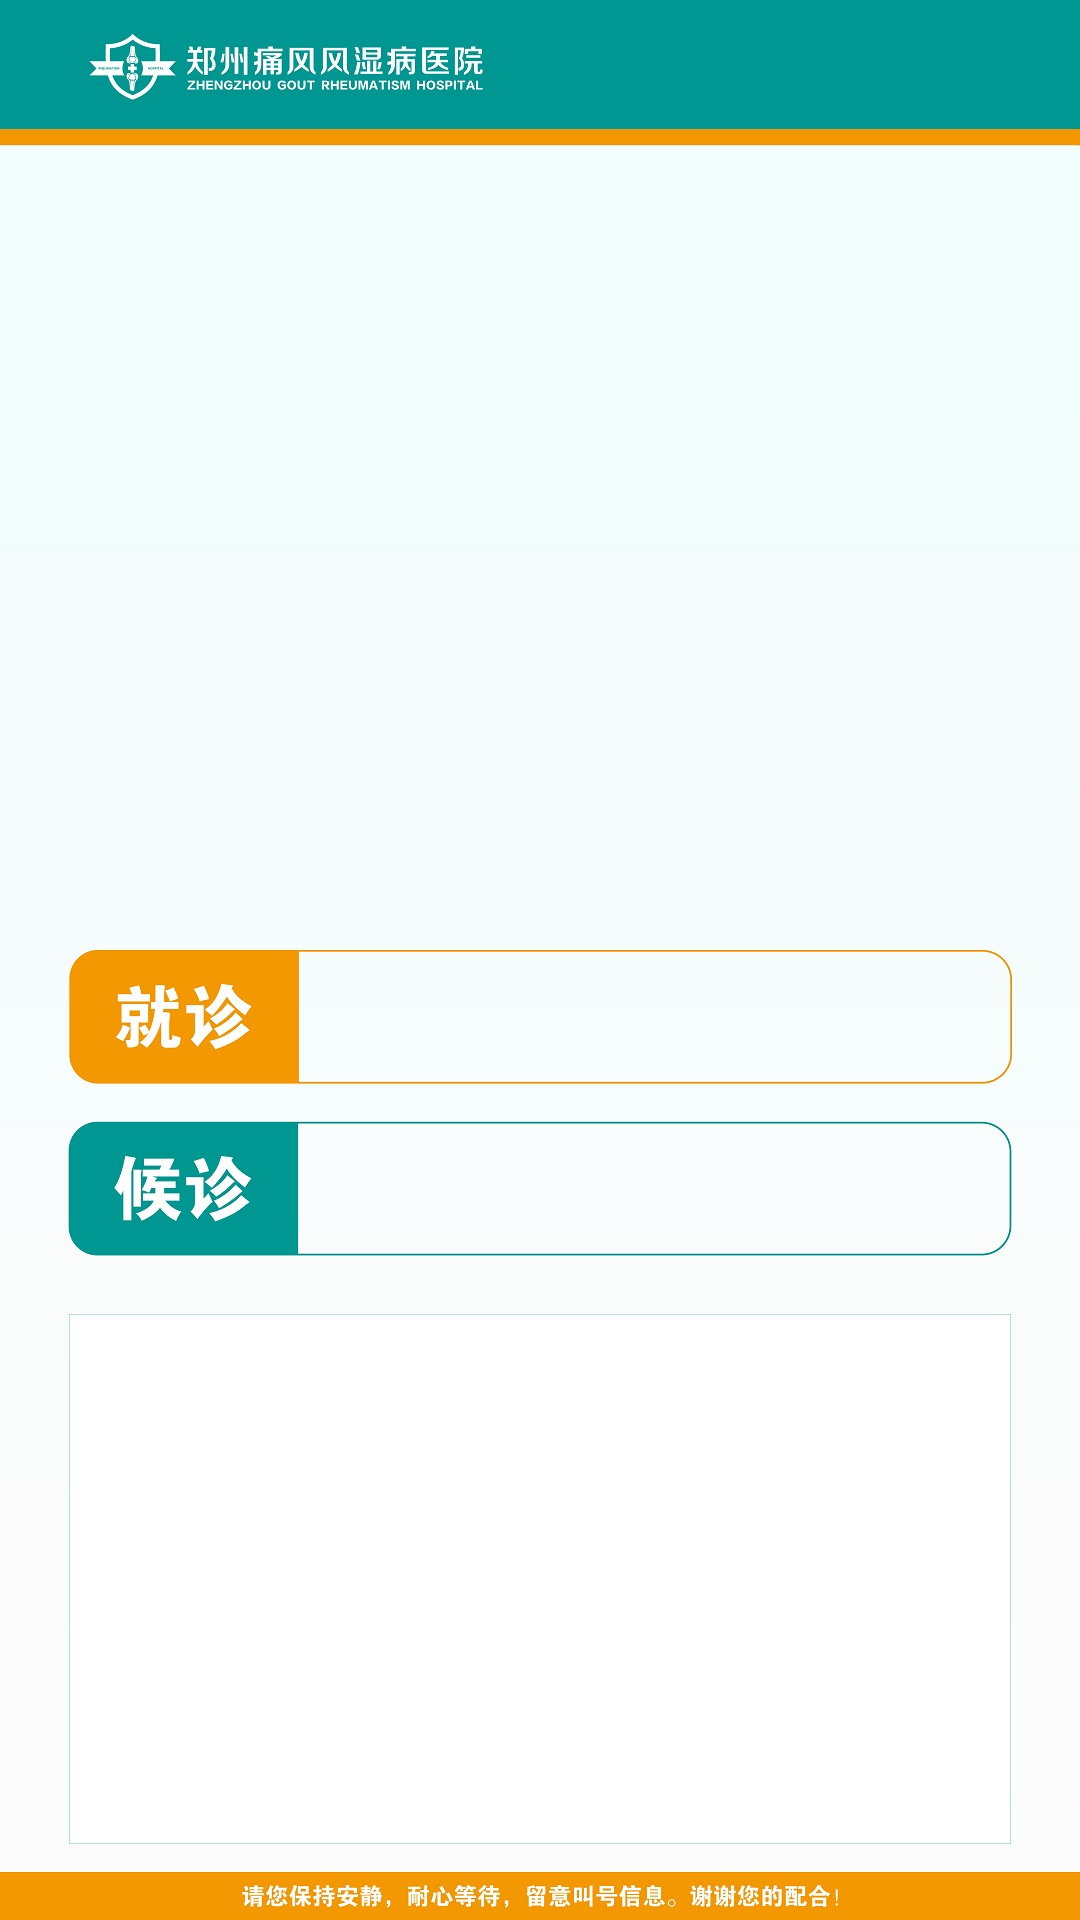
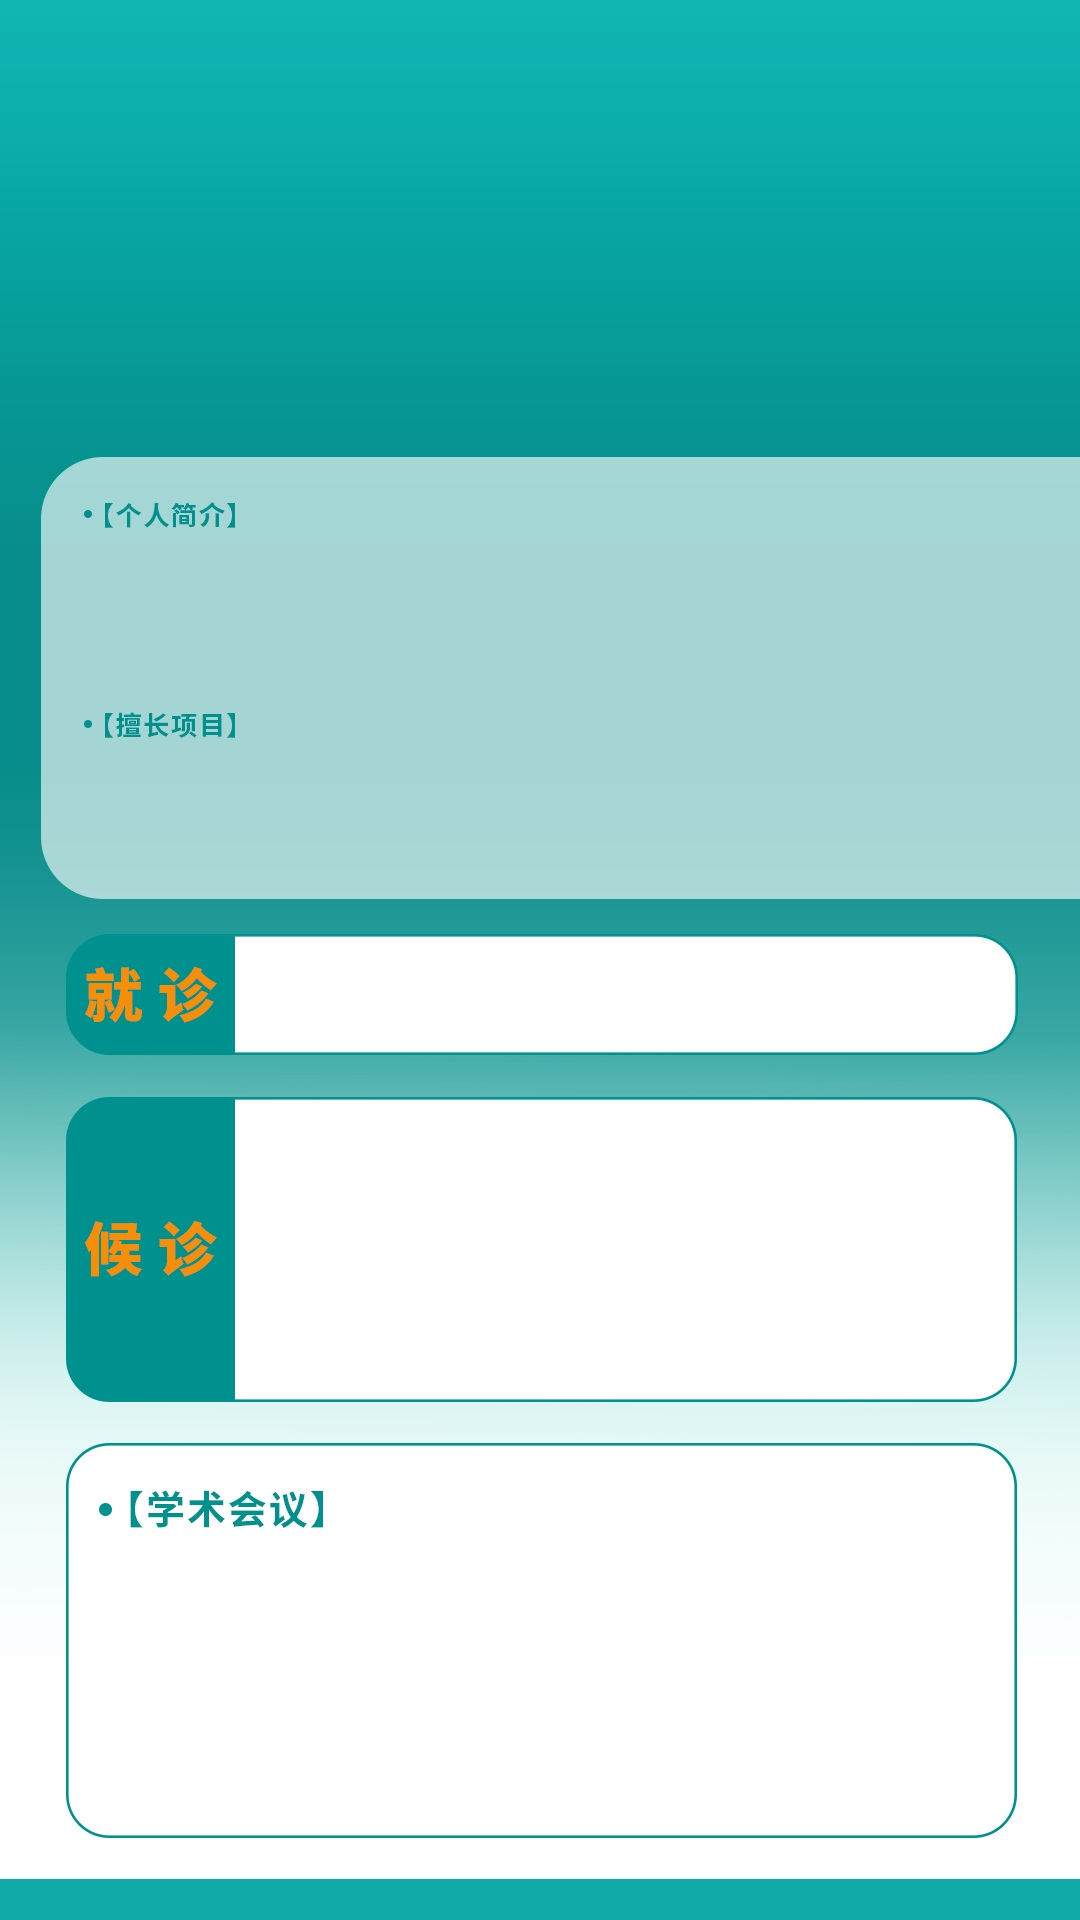
5

diff --git a/expo-projects/doctor-display/src/Home.tsx b/expo-projects/doctor-display/src/Home.tsx
@@ -7,9 +7,10 @@ const bgImg = require('../assets/bg.jpg')
 
 export default function Home() {
   const [modalVisible, setModalVisible] = useState(false)
+
   const [label1Text, setLabel1Text] = useState('')
   const [label2Text, setLabel2Text] = useState('')
-  const [label3Text, setLabel3Text] = useState('')
+  const [names, setNames] = useState<string[]>([])
 
   const [bgImage, setBgImage] = useState(bgImg)
 
@@ -62,13 +63,13 @@ export default function Home() {
       try {
         if (config) {
           const data = await getData(config.dataUrl)
-          setLabel2Text(data.text2)
-          setLabel3Text(data.text3)
+          setLabel2Text(data.title)
+          setNames(data.names)
         }
       } catch (error) {
         console.log(error)
         setLabel2Text('')
-        setLabel3Text('')
+        setNames([])
       }
       timeoutId = setTimeout(getDataTick, 5_000)
     }
@@ -92,11 +93,19 @@ export default function Home() {
       <View style={styles.container}>
         <Image style={styles.bg} source={bgImage} />
 
-        <Text style={[styles.text, styles.label1]} onPress={() => setModalVisible(true)}>
-          {label1Text}
+        <Text style={[styles.text, styles.label1]}>{label1Text}</Text>
+
+        <Text style={[styles.text, styles.label2]} onPress={() => setModalVisible(true)}>
+          {label2Text}
         </Text>
-        <Text style={[styles.text, styles.label2]}>{label2Text}</Text>
-        <Text style={[styles.text, styles.label3]}>{label3Text}</Text>
+
+        <View style={[styles.text, styles.nameView]}>
+          {names.map((name) => (
+            <Text key={name} style={styles.nameItem}>
+              {name}
+            </Text>
+          ))}
+        </View>
       </View>
     </>
   )
@@ -112,25 +121,44 @@ const styles = StyleSheet.create({
     resizeMode: 'stretch',
   },
   text: {
-    width: 490,
-    height: 85,
     position: 'absolute',
-    left: 190,
-    fontSize: 50,
-    fontWeight: 'bold',
-    lineHeight: 85,
     textAlign: 'center',
-    // backgroundColor: 'green',
+    // backgroundColor: '#00ff004f',
   },
   label1: {
-    bottom: 538,
+    left: 260,
+    bottom: 0,
+    width: 200,
+    height: 28,
+    fontSize: 15,
+    lineHeight: 28,
   },
   label2: {
-    bottom: 415,
+    color: '#00908e',
+    left: 155,
+    bottom: 578,
+    width: 520,
+    height: 78,
+    fontSize: 50,
+    fontWeight: 'bold',
+    lineHeight: 78,
   },
-  label3: {
-    bottom: 66,
-    height: 308,
-    lineHeight: 75,
+  nameView: {
+    position: 'absolute',
+    left: 156,
+    bottom: 348,
+    width: 520,
+    height: 200,
+    flexDirection: 'row',
+    flexWrap: 'wrap',
+    overflow: 'hidden',
+  },
+  nameItem: {
+    width: '33%',
+    height: '25%',
+    fontSize: 30,
+    textAlign: 'center',
+    lineHeight: 50,
+    // borderWidth: 1,
   },
 })

diff --git a/expo-projects/doctor-display/src/utils.ts b/expo-projects/doctor-display/src/utils.ts
@@ -47,9 +47,9 @@ export const getConfig = async () => {
 }
 
 export const getData = async (url: string) => {
-  const data = {
-    text2: '',
-    text3: '',
+  const data: { title: string; names: string[] } = {
+    title: '',
+    names: [],
   }
 
   const res = await fetch(url)
@@ -64,20 +64,12 @@ export const getData = async (url: string) => {
 
   const a = list.find((x) => x.state === 1)
   if (a) {
-    data.text2 = `${a.number} ${a.name}`
+    data.title = `${a.number} ${a.name}`
   }
 
   const b = list.filter((x) => x.state === 0)
   if (b.length) {
-    const strs: string[] = []
-    for (let i = 0; i < b.length; i += 2) {
-      const str = b
-        .slice(i, i + 2)
-        .map((x) => `${x.number} ${x.name}`)
-        .join('  ')
-      strs.push(str)
-    }
-    data.text3 = strs.join('\n')
+    data.names = b.map((x) => `${x.number} ${x.name}`)
   }
 
   return data

diff --git a/expo-projects/doctor-display/src/Settings.tsx b/expo-projects/doctor-display/src/Settings.tsx
@@ -7,7 +7,7 @@ type PropsType = {
 }
 
 export default function Settings({ onClose }: PropsType) {
-  const defaultValue = 'http://192.168.1.26:8081/1/asset.json'
+  const defaultValue = 'http://192.168.4.230:8081/1/asset.json'
   const [url, setUrl] = useState('')
 
   const loadSettings = async () => {
@@ -40,9 +40,9 @@ export default function Settings({ onClose }: PropsType) {
           style={styles.input}
           onChangeText={setUrl}
           value={url}
-          autoFocus={true}
           placeholder="服务器地址"
         />
+        <TextInput autoFocus={true} />
         <View style={styles.buttonView}>
           <View style={{ marginRight: 'auto' }}>
             <Button title="Reset" onPress={reset} />